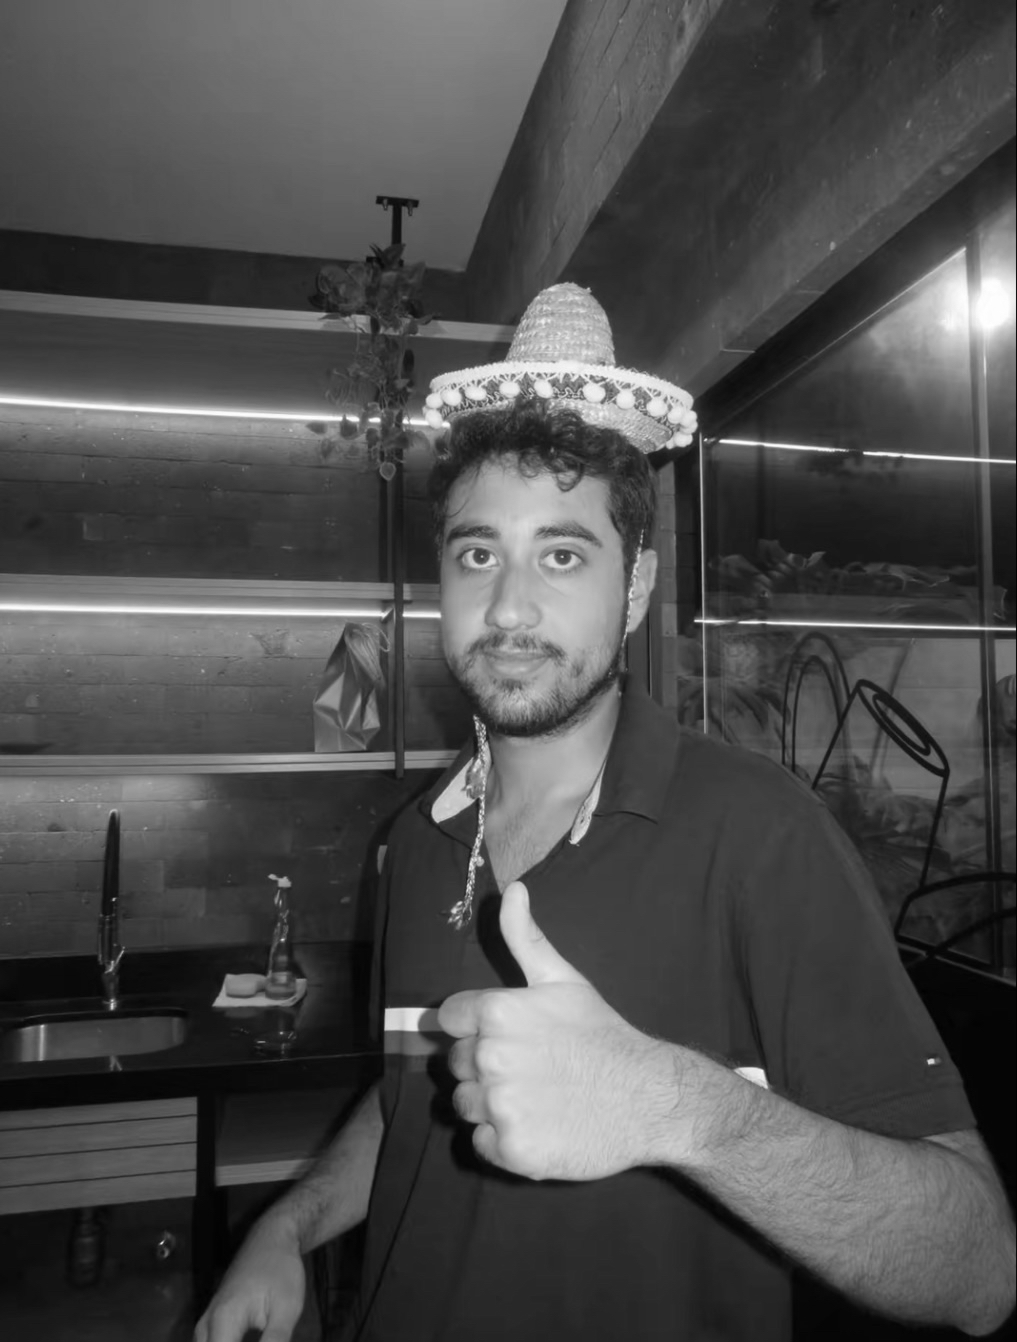
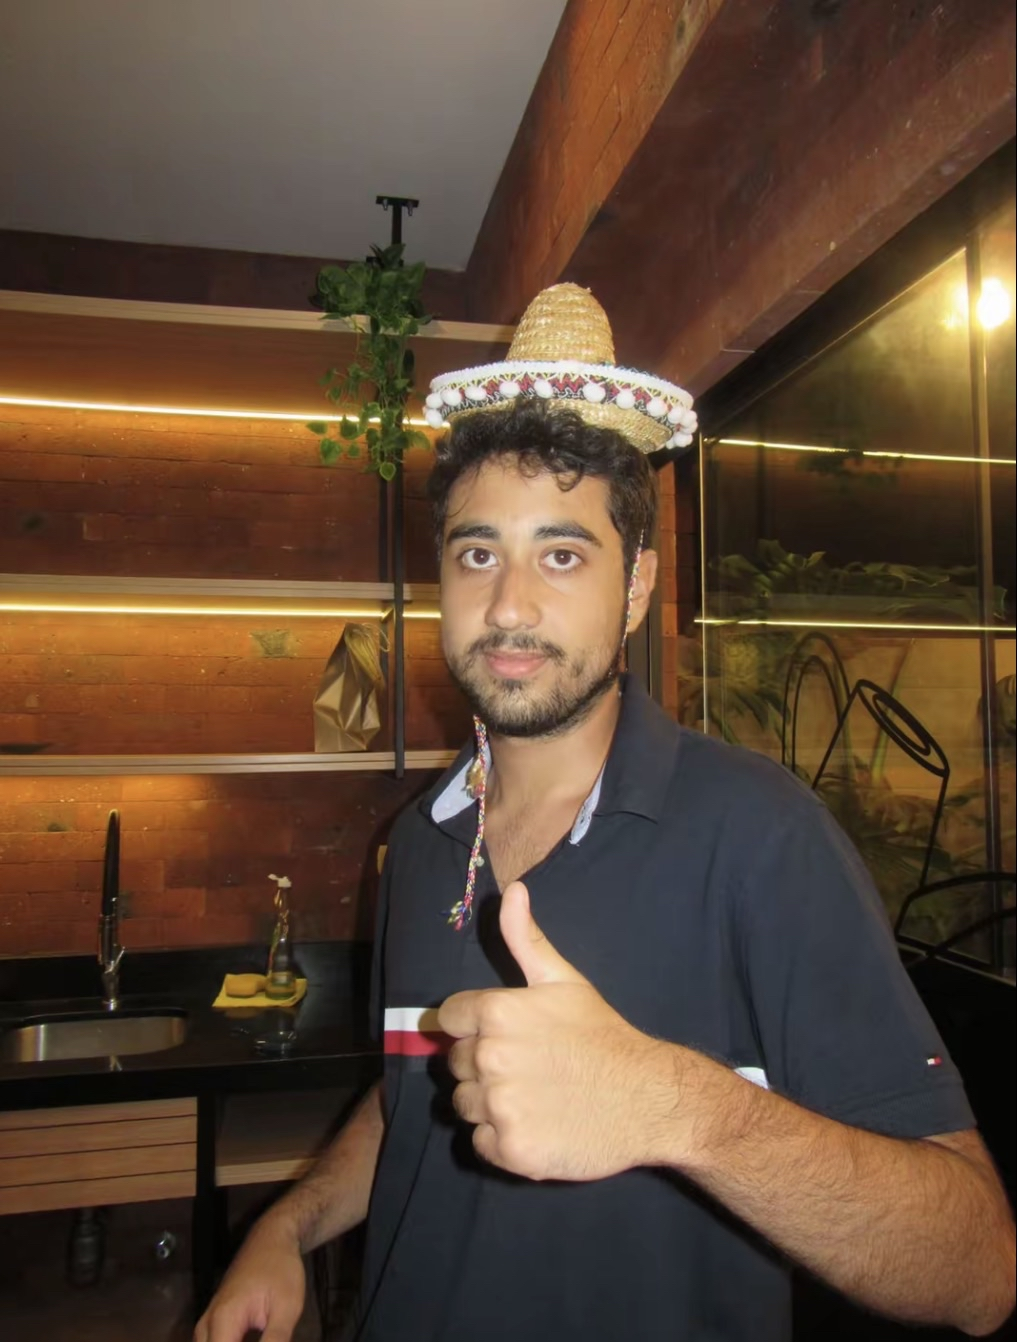
feat: enhance About component with structured biography and improve ProfileImage component

diff --git a/src/contexts/about/interfaces/components/about.tsx b/src/contexts/about/interfaces/components/about.tsx
@@ -2,32 +2,47 @@ import React from "react";
 import { Text } from "@/contexts/shared/interfaces/components/ui/text";
 import { ProfileImage } from "./profile-image";
 
-const BIOGRAPHY = `I am a software engineer born in Lima, Peru. From a young age, I discovered my interest in programming, which led me to develop a strong passion for technology, especially software architecture and low-level programming languages.
+const BIOGRAPHY_PARAGRAPHS = [
+  "I am a software engineer born in Lima, Peru. From a young age, I discovered my interest in programming, which led me to develop a strong passion for technology, especially software architecture and low-level programming languages.",
+  "I have been using Linux for several years, and throughout that journey, I have explored different distributions. This experience has helped me better understand systems, their configurations, and their possibilities.",
+  "Although my main focus is software architecture, I am also interested in UX/UI design, especially minimalist, functional, and well-structured interfaces.",
+  "I consider myself a collaborative, curious, and committed person. I always try to support my teammates, learn from every experience, and keep improving. I am not satisfied with simply making things work; I like to understand how they are built, what problems they solve, and how they can be optimized.",
+  "I also value learning from mistakes, because I believe every challenge is an opportunity to grow both professionally and personally.",
+];
 
-I have been using Linux for several years, and throughout that journey, I have explored different distributions. This experience has helped me better understand systems, their configurations, and their possibilities.
-
-Although my main focus is software architecture, I am also interested in UX/UI design, especially minimalist, functional, and well-structured interfaces.
-
-I consider myself a collaborative, curious, and committed person. I always try to support my teammates, learn from every experience, and keep improving. I am not satisfied with simply making things work; I like to understand how they are built, what problems they solve, and how they can be optimized.
-
-I also value learning from mistakes, because I believe every challenge is an opportunity to grow both professionally and personally.`;
+const BIOGRAPHY_TEXT = BIOGRAPHY_PARAGRAPHS.join("\n\n");
 
 export function About() {
   return (
-    <main className="flex-1 flex flex-col justify-start p-6">
-      <article className="flex flex-col gap-6 py-4">
+    <main className="flex-1 px-6 py-8">
+      <article className="mx-auto flex w-full max-w-4xl flex-col gap-8 py-4">
         <h1 className="text-2xl font-semibold tracking-tight text-foreground">
           About Me
         </h1>
-        <div className="w-full">
-          <Text
-            text={BIOGRAPHY}
-            whiteSpace="pre-wrap"
-            floatGap={24}
-            floatComponent={<ProfileImage />}
-            className="text-xl text-foreground leading-relaxed font-light"
-          />
-        </div>
+
+        <section className="flex flex-col gap-8">
+          <div className="lg:hidden">
+            <ProfileImage className="mx-auto w-full max-w-[320px] aspect-[1017/1342]" />
+          </div>
+
+          <div className="space-y-6 text-lg font-light leading-relaxed text-foreground lg:hidden">
+            {BIOGRAPHY_PARAGRAPHS.map((paragraph) => (
+              <p key={paragraph}>{paragraph}</p>
+            ))}
+          </div>
+
+          <div className="hidden lg:block">
+            <Text
+              text={BIOGRAPHY_TEXT}
+              whiteSpace="pre-wrap"
+              floatGap={32}
+              floatWidth={280}
+              floatHeight={370}
+              floatComponent={<ProfileImage className="h-full w-full" />}
+              className="text-lg font-light leading-relaxed text-foreground"
+            />
+          </div>
+        </section>
       </article>
     </main>
   );

diff --git a/src/contexts/shared/interfaces/components/ui/text.tsx b/src/contexts/shared/interfaces/components/ui/text.tsx
@@ -11,8 +11,8 @@ interface TextProps extends React.HTMLAttributes<HTMLDivElement> {
   wordBreak?: "normal" | "keep-all";
   letterSpacing?: number;
   // Flow/Float options
-  floatWidth?: number;      // Optional: override base float width
-  floatHeight?: number;     // Optional: override base float height
+  floatWidth?: number;
+  floatHeight?: number;
   floatGap?: number;
   floatComponent?: React.ReactNode;
 }
@@ -45,29 +45,28 @@ export function Text({
     const element = containerRef.current;
     if (!element) return;
 
-    const style = window.getComputedStyle(element);
-    const fontWeight = style.fontWeight || "normal";
-    const fontSize = style.fontSize || "16px";
-    const fontFamily = style.fontFamily || "sans-serif";
-    const computedFont = font || `${fontWeight} ${fontSize} ${fontFamily}`;
-    
-    let computedLineHeight = lineHeight;
-    if (computedLineHeight === undefined) {
-      const parsed = parseFloat(style.lineHeight);
-      computedLineHeight = isNaN(parsed) ? 24 : parsed;
-    }
+    const updateLayout = () => {
+      const style = window.getComputedStyle(element);
+      const fontWeight = style.fontWeight || "normal";
+      const fontSize = style.fontSize || "16px";
+      const fontFamily = style.fontFamily || "sans-serif";
+      const computedFont = font || `${fontWeight} ${fontSize} ${fontFamily}`;
+      
+      let computedLineHeight = lineHeight;
+      if (computedLineHeight === undefined) {
+        const parsed = parseFloat(style.lineHeight);
+        computedLineHeight = isNaN(parsed) ? 24 : parsed;
+      }
 
-    setDetectedFont(computedFont);
-    setDetectedLineHeight(computedLineHeight);
-    setWidth(element.getBoundingClientRect().width);
+      setDetectedFont(computedFont);
+      setDetectedLineHeight(computedLineHeight);
+      setWidth(element.getBoundingClientRect().width);
 
-    // Responsive check for standard profile image float sizes if component is provided
-    const updateFloatSize = () => {
       if (floatComponent) {
         if (window.innerWidth >= 768) {
           setCurrentFloatSize({
-            width: floatWidth || 160,
-            height: floatHeight || 160,
+            width: floatWidth || 176,
+            height: floatHeight || 176,
           });
         } else {
           setCurrentFloatSize({
@@ -77,13 +76,19 @@ export function Text({
         }
       }
     };
-    updateFloatSize();
+
+    updateLayout();
+
+    // Trigger recalculation when custom fonts (like EB Garamond) are fully loaded
+    if (typeof document !== "undefined" && document.fonts) {
+      document.fonts.ready.then(() => {
+        updateLayout();
+      });
+    }
 
     const observer = new ResizeObserver((entries) => {
       if (!entries || entries.length === 0) return;
-      const rect = entries[0].contentRect;
-      setWidth(rect.width);
-      updateFloatSize();
+      updateLayout();
     });
 
     observer.observe(element);

diff --git a/src/contexts/about/interfaces/components/profile-image.tsx b/src/contexts/about/interfaces/components/profile-image.tsx
@@ -1,16 +1,20 @@
 import React from "react";
 import Image from "next/image";
 
-export function ProfileImage() {
+interface ProfileImageProps {
+  className?: string;
+}
+
+export function ProfileImage({ className = "" }: ProfileImageProps) {
   return (
-    <div className="relative w-32 h-32 md:w-40 md:h-40 rounded-xl overflow-hidden border border-border/50 shadow-md">
+    <div className={`relative overflow-hidden ${className}`}>
       <Image
         src="/assets/mateo.png"
         alt="Mateo Aleman"
         fill
-        sizes="(max-width: 768px) 128px, 160px"
         priority
-        className="object-cover"
+        sizes="(max-width: 1024px) 320px, 280px"
+        className="object-contain"
       />
     </div>
   );

diff --git a/src/contexts/gallery/interfaces/components/gallery.tsx b/src/contexts/gallery/interfaces/components/gallery.tsx
@@ -8,7 +8,7 @@ export function Gallery() {
         <h1 className="text-2xl font-semibold tracking-tight text-foreground">
           Gallery
         </h1>
-        <div className="text-xl text-foreground leading-relaxed font-light flex flex-col gap-4">
+        <div className="text-lg text-foreground leading-relaxed font-light flex flex-col gap-4">
           <Text text="This is the empty gallery page container, ready to showcase your visual context." />
         </div>
       </article>
